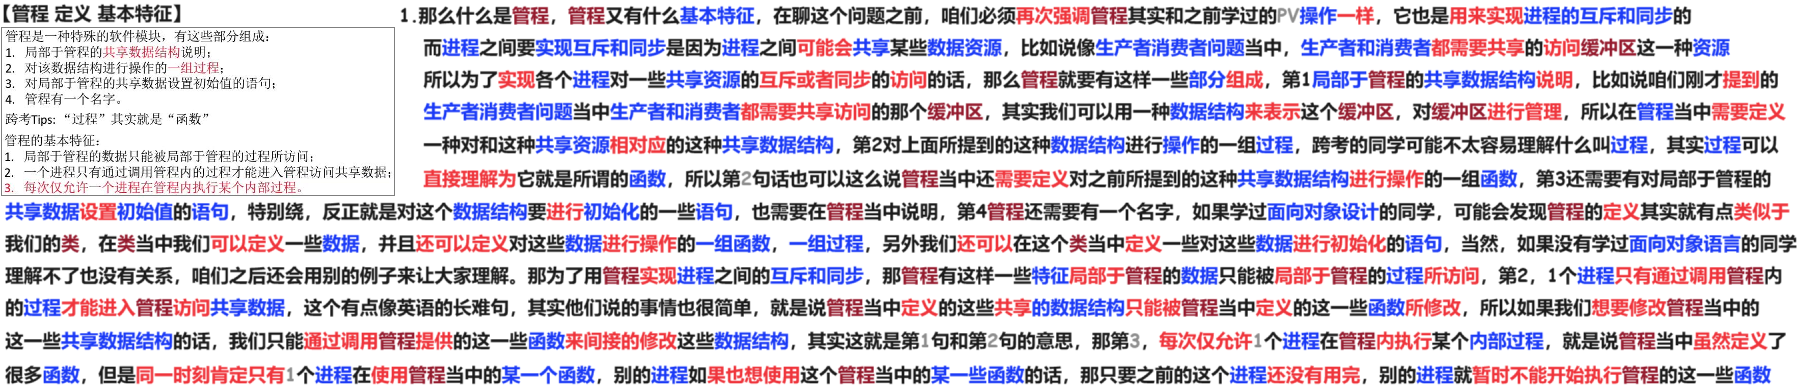
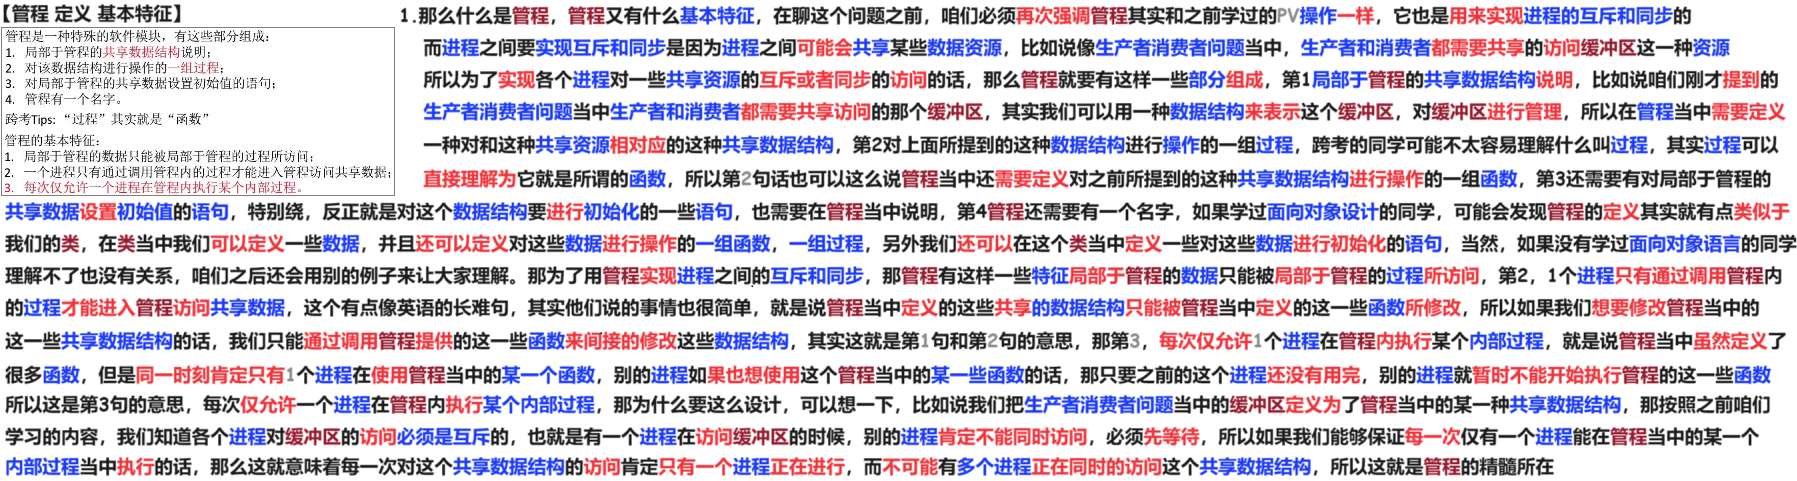
240505

diff --git a/01 初试/01 OS/02 24 25 王道/01 基础/02 进程 线程/03 同步 互斥/07 管程 240505/02 Doc.md b/01 初试/01 OS/02 24 25 王道/01 基础/02 进程 线程/03 同步 互斥/07 管程 240505/02 Doc.md
@@ -16,4 +16,8 @@
 
 # 03 管程 定义 基本特征
 
-<img src="https://cvp.oss-cn-shanghai.aliyuncs.com/picgo/202405052226279.png" alt="image-20240505222608079" style="zoom:50%;" />
+<img src="https://cvp.oss-cn-shanghai.aliyuncs.com/picgo/202405060736642.png" alt="image-20240506073637461" style="zoom:50%;" />
+
+
+
+# 拓展1 用管程 解决 生产者消费者问题
